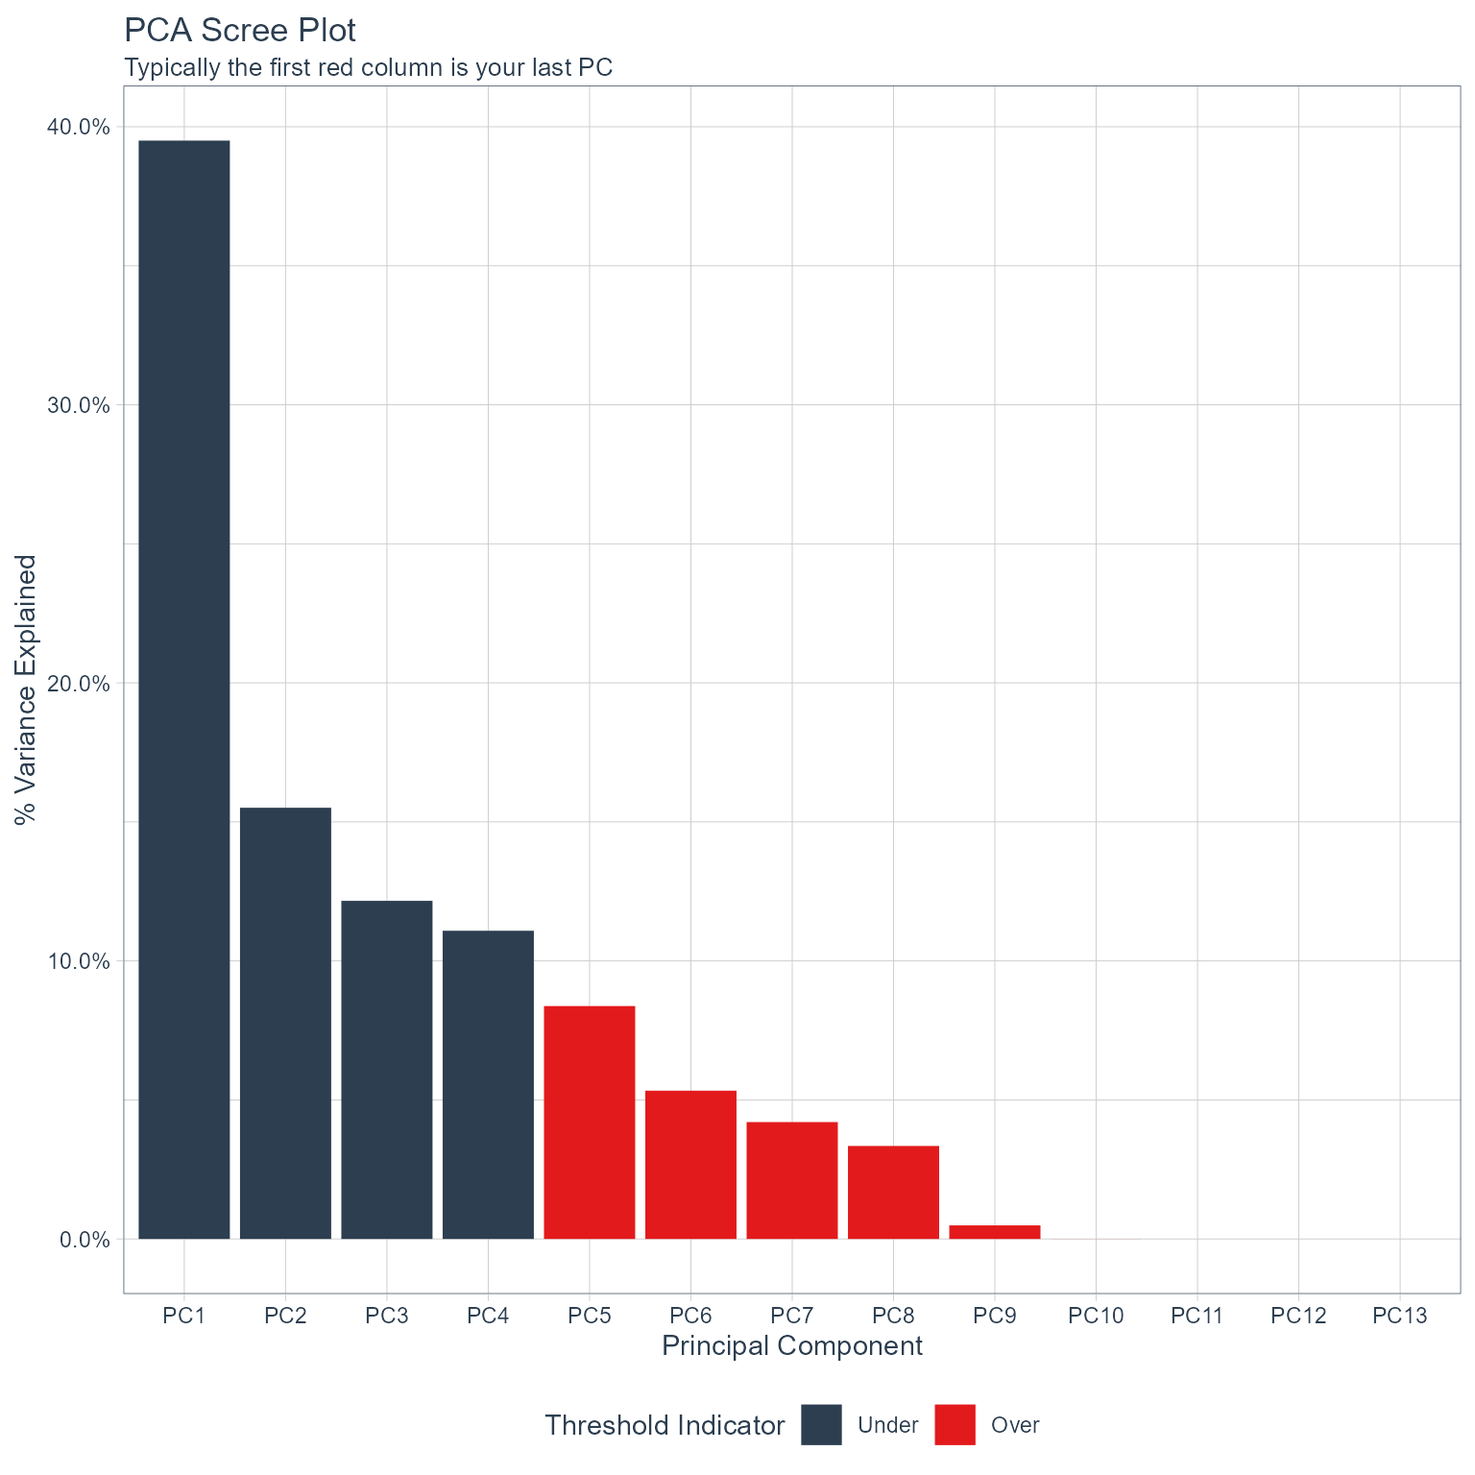
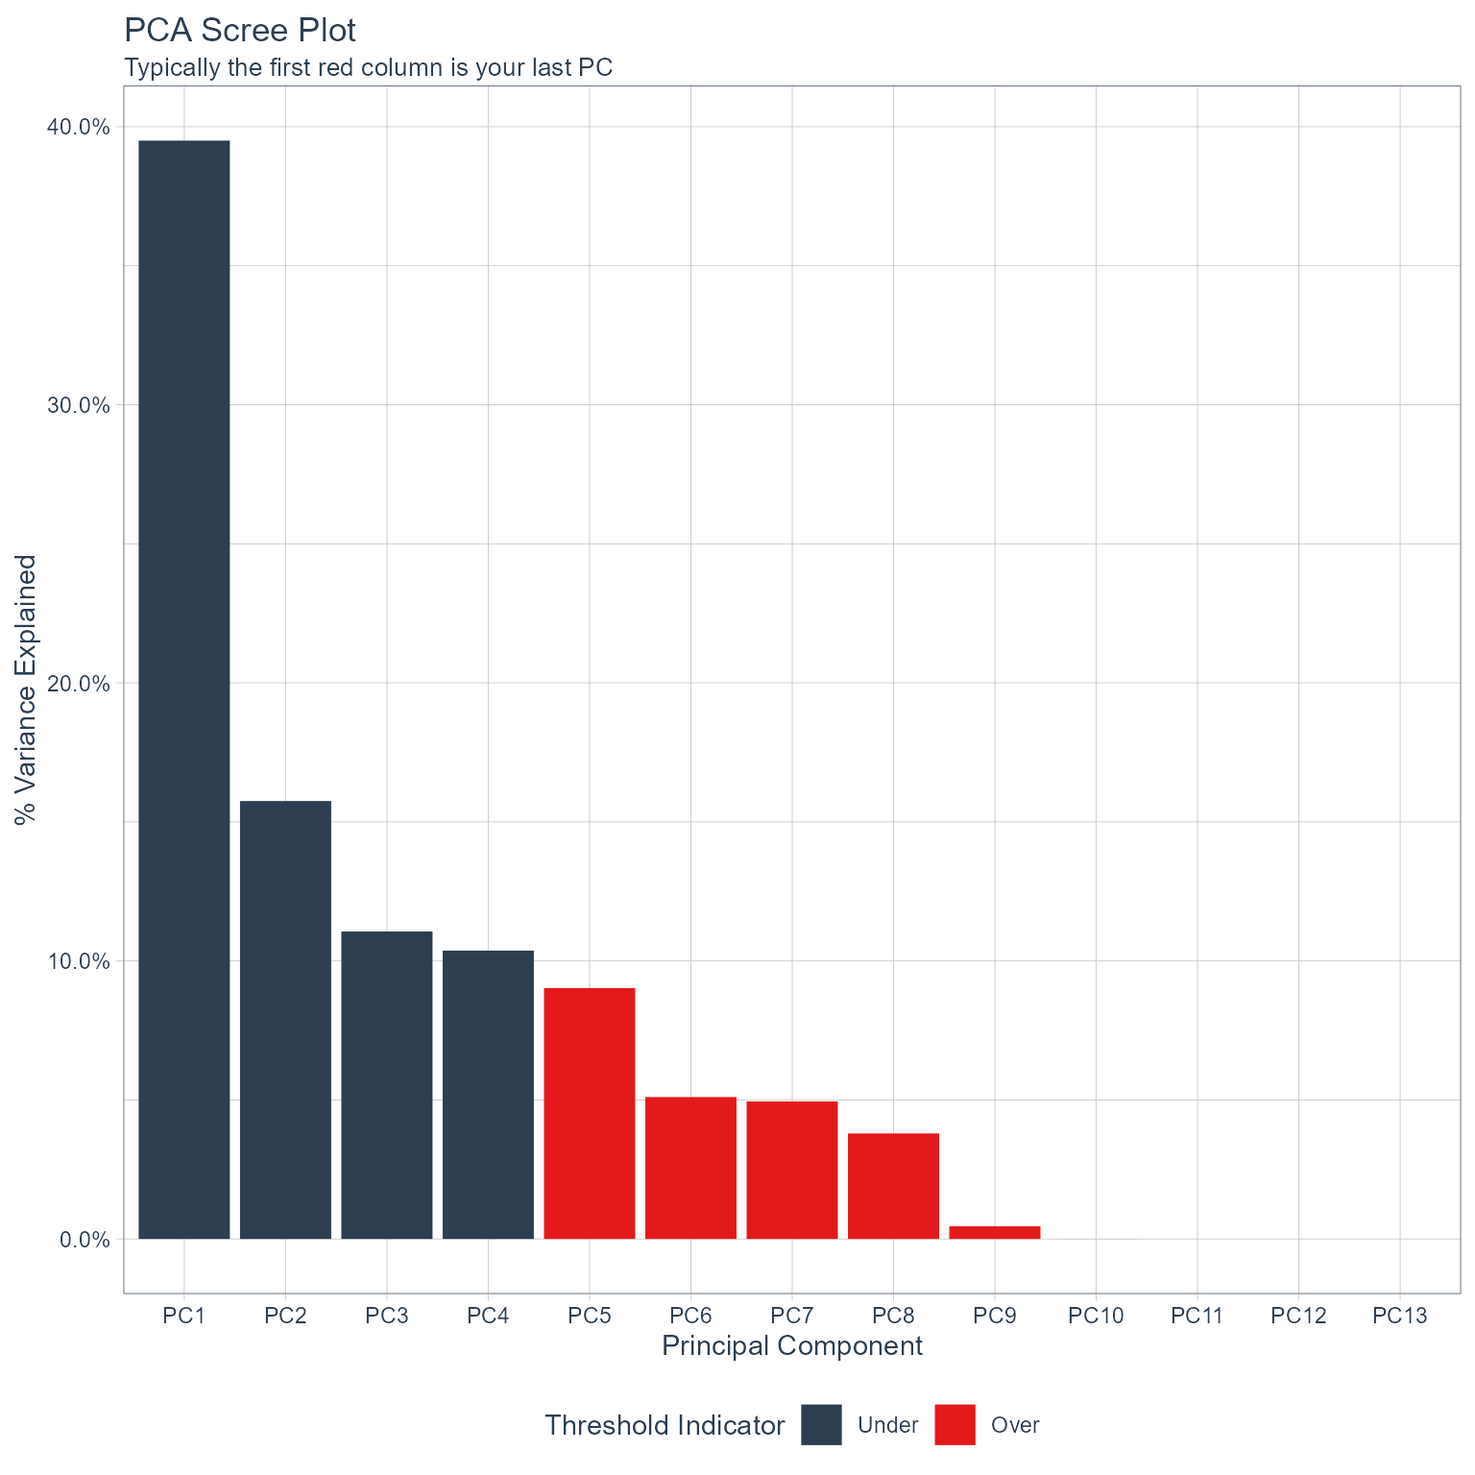
update site

diff --git a/docs/articles/getting-started.html b/docs/articles/getting-started.html
@@ -175,12 +175,12 @@
 <span class="co">#&gt; # A tibble: 6 x 2</span>
 <span class="co">#&gt;   date_col            value</span>
 <span class="co">#&gt;   &lt;dttm&gt;              &lt;int&gt;</span>
-<span class="co">#&gt; 1 2018-04-01 00:00:00  1616</span>
-<span class="co">#&gt; 2 2019-08-01 00:00:00  1416</span>
-<span class="co">#&gt; 3 2013-09-01 00:00:00  1753</span>
-<span class="co">#&gt; 4 2017-04-01 00:00:00  1493</span>
-<span class="co">#&gt; 5 2018-03-01 00:00:00  1618</span>
-<span class="co">#&gt; 6 2016-12-01 00:00:00  1557</span></code></pre></div>
+<span class="co">#&gt; 1 2014-04-01 00:00:00  1805</span>
+<span class="co">#&gt; 2 2017-01-01 00:00:00  1635</span>
+<span class="co">#&gt; 3 2015-08-01 00:00:00  1609</span>
+<span class="co">#&gt; 4 2016-01-01 00:00:00  1510</span>
+<span class="co">#&gt; 5 2020-06-01 00:00:00   997</span>
+<span class="co">#&gt; 6 2018-05-01 00:00:00  1677</span></code></pre></div>
 </div>
 <div id="initial-recipe" class="section level2">
 <h2 class="hasAnchor">
@@ -207,25 +207,25 @@
 <span class="fu"><a href="../reference/get_juiced_data.html">get_juiced_data</a></span><span class="op">(</span><span class="va">rec_obj</span><span class="op">)</span> <span class="op"><a href="../reference/%&gt;%.html">%&gt;%</a></span> <span class="fu"><a href="https://pillar.r-lib.org/reference/glimpse.html">glimpse</a></span><span class="op">(</span><span class="op">)</span>
 <span class="co">#&gt; Rows: 76</span>
 <span class="co">#&gt; Columns: 20</span>
-<span class="co">#&gt; $ date_col           &lt;dttm&gt; 2018-04-01, 2019-08-01, 2013-09-01, 2017-04-01, 20~</span>
-<span class="co">#&gt; $ value              &lt;int&gt; 1616, 1416, 1753, 1493, 1618, 1557, 2028, 1381, 175~</span>
-<span class="co">#&gt; $ date_col_index.num &lt;dbl&gt; 1522540800, 1564617600, 1377993600, 1491004800, 151~</span>
-<span class="co">#&gt; $ date_col_year      &lt;int&gt; 2018, 2019, 2013, 2017, 2018, 2016, 2013, 2019, 201~</span>
-<span class="co">#&gt; $ date_col_half      &lt;int&gt; 1, 2, 2, 1, 1, 2, 1, 2, 1, 1, 1, 2, 2, 1, 1, 1, 2, ~</span>
-<span class="co">#&gt; $ date_col_quarter   &lt;int&gt; 2, 3, 3, 2, 1, 4, 2, 4, 1, 1, 2, 3, 3, 2, 1, 1, 3, ~</span>
-<span class="co">#&gt; $ date_col_month     &lt;int&gt; 4, 8, 9, 4, 3, 12, 5, 12, 1, 1, 5, 9, 8, 4, 2, 3, 7~</span>
-<span class="co">#&gt; $ date_col_month.lbl &lt;ord&gt; April, August, September, April, March, December, M~</span>
+<span class="co">#&gt; $ date_col           &lt;dttm&gt; 2014-04-01, 2017-01-01, 2015-08-01, 2016-01-01, 20~</span>
+<span class="co">#&gt; $ value              &lt;int&gt; 1805, 1635, 1609, 1510, 997, 1677, 1560, 1164, 1641~</span>
+<span class="co">#&gt; $ date_col_index.num &lt;dbl&gt; 1396310400, 1483228800, 1438387200, 1451606400, 159~</span>
+<span class="co">#&gt; $ date_col_year      &lt;int&gt; 2014, 2017, 2015, 2016, 2020, 2018, 2019, 2020, 201~</span>
+<span class="co">#&gt; $ date_col_half      &lt;int&gt; 1, 1, 2, 1, 1, 1, 1, 2, 2, 1, 2, 2, 1, 1, 1, 1, 1, ~</span>
+<span class="co">#&gt; $ date_col_quarter   &lt;int&gt; 2, 1, 3, 1, 2, 2, 1, 4, 4, 1, 3, 4, 1, 1, 1, 2, 2, ~</span>
+<span class="co">#&gt; $ date_col_month     &lt;int&gt; 4, 1, 8, 1, 6, 5, 3, 10, 10, 2, 9, 11, 2, 2, 2, 4, ~</span>
+<span class="co">#&gt; $ date_col_month.lbl &lt;ord&gt; April, January, August, January, June, May, March, ~</span>
 <span class="co">#&gt; $ date_col_day       &lt;int&gt; 1, 1, 1, 1, 1, 1, 1, 1, 1, 1, 1, 1, 1, 1, 1, 1, 1, ~</span>
-<span class="co">#&gt; $ date_col_wday      &lt;int&gt; 1, 5, 1, 7, 5, 5, 4, 1, 2, 5, 2, 3, 5, 4, 6, 1, 4, ~</span>
-<span class="co">#&gt; $ date_col_wday.lbl  &lt;ord&gt; Sunday, Thursday, Sunday, Saturday, Thursday, Thurs~</span>
+<span class="co">#&gt; $ date_col_wday      &lt;int&gt; 3, 1, 7, 6, 2, 3, 6, 5, 5, 2, 1, 5, 4, 6, 1, 6, 6, ~</span>
+<span class="co">#&gt; $ date_col_wday.lbl  &lt;ord&gt; Tuesday, Sunday, Saturday, Friday, Monday, Tuesday,~</span>
 <span class="co">#&gt; $ date_col_mday      &lt;int&gt; 1, 1, 1, 1, 1, 1, 1, 1, 1, 1, 1, 1, 1, 1, 1, 1, 1, ~</span>
-<span class="co">#&gt; $ date_col_qday      &lt;int&gt; 1, 32, 63, 1, 60, 62, 31, 62, 1, 1, 31, 63, 32, 1, ~</span>
-<span class="co">#&gt; $ date_col_yday      &lt;int&gt; 91, 213, 244, 91, 60, 336, 121, 335, 1, 1, 121, 244~</span>
-<span class="co">#&gt; $ date_col_mweek     &lt;int&gt; 5, 5, 5, 5, 5, 5, 5, 5, 6, 5, 6, 6, 5, 5, 5, 5, 5, ~</span>
-<span class="co">#&gt; $ date_col_week      &lt;int&gt; 13, 31, 35, 13, 9, 48, 18, 48, 1, 1, 18, 35, 31, 14~</span>
-<span class="co">#&gt; $ date_col_week2     &lt;int&gt; 1, 1, 1, 1, 1, 0, 0, 0, 1, 1, 0, 1, 1, 0, 1, 1, 1, ~</span>
-<span class="co">#&gt; $ date_col_week3     &lt;int&gt; 1, 1, 2, 1, 0, 0, 0, 0, 1, 1, 0, 2, 1, 2, 2, 0, 0, ~</span>
-<span class="co">#&gt; $ date_col_week4     &lt;int&gt; 1, 3, 3, 1, 1, 0, 2, 0, 1, 1, 2, 3, 3, 2, 1, 1, 3, ~</span>
+<span class="co">#&gt; $ date_col_qday      &lt;int&gt; 1, 1, 32, 1, 62, 31, 60, 1, 1, 32, 63, 32, 32, 32, ~</span>
+<span class="co">#&gt; $ date_col_yday      &lt;int&gt; 91, 1, 213, 1, 153, 121, 60, 275, 274, 32, 244, 305~</span>
+<span class="co">#&gt; $ date_col_mweek     &lt;int&gt; 6, 5, 5, 5, 6, 5, 5, 5, 5, 6, 5, 5, 5, 5, 5, 5, 5, ~</span>
+<span class="co">#&gt; $ date_col_week      &lt;int&gt; 13, 1, 31, 1, 22, 18, 9, 40, 40, 5, 35, 44, 5, 5, 5~</span>
+<span class="co">#&gt; $ date_col_week2     &lt;int&gt; 1, 1, 1, 1, 0, 0, 1, 0, 0, 1, 1, 0, 1, 1, 1, 0, 0, ~</span>
+<span class="co">#&gt; $ date_col_week3     &lt;int&gt; 1, 1, 1, 1, 1, 0, 0, 1, 1, 2, 2, 2, 2, 2, 2, 2, 0, ~</span>
+<span class="co">#&gt; $ date_col_week4     &lt;int&gt; 1, 1, 3, 1, 2, 2, 1, 0, 0, 1, 3, 0, 1, 1, 1, 2, 2, ~</span>
 <span class="co">#&gt; $ date_col_mday7     &lt;int&gt; 1, 1, 1, 1, 1, 1, 1, 1, 1, 1, 1, 1, 1, 1, 1, 1, 1, ~</span></code></pre></div>
 <p>Now that we have out initial recipe we can use the <code><a href="../reference/pca_your_recipe.html">pca_your_recipe()</a></code> function.</p>
 <div class="sourceCode" id="cb6"><pre class="downlit sourceCode r">
@@ -287,18 +287,18 @@
 <div class="sourceCode" id="cb8"><pre class="downlit sourceCode r">
 <code class="sourceCode R"><span class="va">pca_list</span><span class="op">$</span><span class="va">variable_loadings</span>
 <span class="co">#&gt; # A tibble: 169 x 4</span>
-<span class="co">#&gt;    terms                  value component id       </span>
-<span class="co">#&gt;    &lt;chr&gt;                  &lt;dbl&gt; &lt;chr&gt;     &lt;chr&gt;    </span>
-<span class="co">#&gt;  1 date_col_index.num -0.0529   PC1       pca_MX5Cr</span>
-<span class="co">#&gt;  2 date_col_year       0.000944 PC1       pca_MX5Cr</span>
-<span class="co">#&gt;  3 date_col_half      -0.385    PC1       pca_MX5Cr</span>
-<span class="co">#&gt;  4 date_col_quarter   -0.432    PC1       pca_MX5Cr</span>
-<span class="co">#&gt;  5 date_col_month     -0.438    PC1       pca_MX5Cr</span>
-<span class="co">#&gt;  6 date_col_wday      -0.0275   PC1       pca_MX5Cr</span>
-<span class="co">#&gt;  7 date_col_qday      -0.0886   PC1       pca_MX5Cr</span>
-<span class="co">#&gt;  8 date_col_yday      -0.438    PC1       pca_MX5Cr</span>
-<span class="co">#&gt;  9 date_col_mweek      0.0671   PC1       pca_MX5Cr</span>
-<span class="co">#&gt; 10 date_col_week      -0.438    PC1       pca_MX5Cr</span>
+<span class="co">#&gt;    terms                value component id       </span>
+<span class="co">#&gt;    &lt;chr&gt;                &lt;dbl&gt; &lt;chr&gt;     &lt;chr&gt;    </span>
+<span class="co">#&gt;  1 date_col_index.num  0.0324 PC1       pca_LeSey</span>
+<span class="co">#&gt;  2 date_col_year      -0.0228 PC1       pca_LeSey</span>
+<span class="co">#&gt;  3 date_col_half       0.387  PC1       pca_LeSey</span>
+<span class="co">#&gt;  4 date_col_quarter    0.433  PC1       pca_LeSey</span>
+<span class="co">#&gt;  5 date_col_month      0.439  PC1       pca_LeSey</span>
+<span class="co">#&gt;  6 date_col_wday       0.0455 PC1       pca_LeSey</span>
+<span class="co">#&gt;  7 date_col_qday       0.0959 PC1       pca_LeSey</span>
+<span class="co">#&gt;  8 date_col_yday       0.439  PC1       pca_LeSey</span>
+<span class="co">#&gt;  9 date_col_mweek     -0.0518 PC1       pca_LeSey</span>
+<span class="co">#&gt; 10 date_col_week       0.439  PC1       pca_LeSey</span>
 <span class="co">#&gt; # ... with 159 more rows</span></code></pre></div>
 </div>
 <div id="variable-variance" class="section level2">
@@ -309,16 +309,16 @@
 <span class="co">#&gt; # A tibble: 52 x 4</span>
 <span class="co">#&gt;    terms       value component id       </span>
 <span class="co">#&gt;    &lt;chr&gt;       &lt;dbl&gt;     &lt;int&gt; &lt;chr&gt;    </span>
-<span class="co">#&gt;  1 variance 5.14             1 pca_MX5Cr</span>
-<span class="co">#&gt;  2 variance 2.02             2 pca_MX5Cr</span>
-<span class="co">#&gt;  3 variance 1.58             3 pca_MX5Cr</span>
-<span class="co">#&gt;  4 variance 1.44             4 pca_MX5Cr</span>
-<span class="co">#&gt;  5 variance 1.09             5 pca_MX5Cr</span>
-<span class="co">#&gt;  6 variance 0.693            6 pca_MX5Cr</span>
-<span class="co">#&gt;  7 variance 0.546            7 pca_MX5Cr</span>
-<span class="co">#&gt;  8 variance 0.435            8 pca_MX5Cr</span>
-<span class="co">#&gt;  9 variance 0.0634           9 pca_MX5Cr</span>
-<span class="co">#&gt; 10 variance 0.000267        10 pca_MX5Cr</span>
+<span class="co">#&gt;  1 variance 5.13             1 pca_LeSey</span>
+<span class="co">#&gt;  2 variance 2.05             2 pca_LeSey</span>
+<span class="co">#&gt;  3 variance 1.44             3 pca_LeSey</span>
+<span class="co">#&gt;  4 variance 1.35             4 pca_LeSey</span>
+<span class="co">#&gt;  5 variance 1.17             5 pca_LeSey</span>
+<span class="co">#&gt;  6 variance 0.663            6 pca_LeSey</span>
+<span class="co">#&gt;  7 variance 0.643            7 pca_LeSey</span>
+<span class="co">#&gt;  8 variance 0.493            8 pca_LeSey</span>
+<span class="co">#&gt;  9 variance 0.0591           9 pca_LeSey</span>
+<span class="co">#&gt; 10 variance 0.000243        10 pca_LeSey</span>
 <span class="co">#&gt; # ... with 42 more rows</span></code></pre></div>
 </div>
 <div id="pca-estimates" class="section level2">
@@ -352,28 +352,28 @@
 <code class="sourceCode R"><span class="va">pca_list</span><span class="op">$</span><span class="va">pca_juiced_estimates</span> <span class="op"><a href="../reference/%&gt;%.html">%&gt;%</a></span> <span class="fu"><a href="https://pillar.r-lib.org/reference/glimpse.html">glimpse</a></span><span class="op">(</span><span class="op">)</span>
 <span class="co">#&gt; Rows: 76</span>
 <span class="co">#&gt; Columns: 9</span>
-<span class="co">#&gt; $ date_col           &lt;dttm&gt; 2018-04-01, 2019-08-01, 2013-09-01, 2017-04-01, 20~</span>
-<span class="co">#&gt; $ value              &lt;dbl&gt; 0.17252184, -0.72676896, 0.78853603, -0.38054200, 0~</span>
-<span class="co">#&gt; $ date_col_month.lbl &lt;ord&gt; April, August, September, April, March, December, M~</span>
-<span class="co">#&gt; $ date_col_wday.lbl  &lt;ord&gt; Sunday, Thursday, Sunday, Saturday, Thursday, Thurs~</span>
-<span class="co">#&gt; $ PC1                &lt;dbl&gt; 2.0453643, -0.7419116, -1.0922849, 1.9873287, 2.616~</span>
-<span class="co">#&gt; $ PC2                &lt;dbl&gt; -0.9769518, -1.9027236, 1.6654655, -0.2606689, -0.9~</span>
-<span class="co">#&gt; $ PC3                &lt;dbl&gt; 0.043994680, 0.280696798, 1.954075547, -1.115024200~</span>
-<span class="co">#&gt; $ PC4                &lt;dbl&gt; -1.273234041, 1.421913390, 1.699155734, 0.009353741~</span>
-<span class="co">#&gt; $ PC5                &lt;dbl&gt; 0.1212499, 0.4046127, -0.5212584, 1.3233349, -1.095~</span>
+<span class="co">#&gt; $ date_col           &lt;dttm&gt; 2014-04-01, 2017-01-01, 2015-08-01, 2016-01-01, 20~</span>
+<span class="co">#&gt; $ value              &lt;dbl&gt; 1.014176455, 0.401363818, 0.307639533, -0.049233709~</span>
+<span class="co">#&gt; $ date_col_month.lbl &lt;ord&gt; April, January, August, January, June, May, March, ~</span>
+<span class="co">#&gt; $ date_col_wday.lbl  &lt;ord&gt; Tuesday, Sunday, Saturday, Friday, Monday, Tuesday,~</span>
+<span class="co">#&gt; $ PC1                &lt;dbl&gt; -2.1105622, -3.5392516, 0.7751972, -3.4346079, -0.6~</span>
+<span class="co">#&gt; $ PC2                &lt;dbl&gt; -2.01667849, 0.03429529, -0.92967583, -0.39001042, ~</span>
+<span class="co">#&gt; $ PC3                &lt;dbl&gt; -0.41347233, -0.72959175, 1.45529012, -0.71436670, ~</span>
+<span class="co">#&gt; $ PC4                &lt;dbl&gt; -1.24774104, -0.76209272, 1.68753456, 0.75111525, -~</span>
+<span class="co">#&gt; $ PC5                &lt;dbl&gt; -0.001685975, -0.235149574, -0.584005717, -1.343240~</span>
 
 <span class="va">pca_list</span><span class="op">$</span><span class="va">pca_baked_data</span> <span class="op"><a href="../reference/%&gt;%.html">%&gt;%</a></span> <span class="fu"><a href="https://pillar.r-lib.org/reference/glimpse.html">glimpse</a></span><span class="op">(</span><span class="op">)</span>
 <span class="co">#&gt; Rows: 95</span>
 <span class="co">#&gt; Columns: 9</span>
 <span class="co">#&gt; $ date_col           &lt;dttm&gt; 2013-01-01, 2013-02-01, 2013-03-01, 2013-04-01, 20~</span>
-<span class="co">#&gt; $ value              &lt;dbl&gt; 2.2678694, 0.6356566, 0.9818836, 1.2921389, 2.02506~</span>
+<span class="co">#&gt; $ value              &lt;dbl&gt; 2.0127006, 0.7041654, 0.9817334, 1.2304633, 1.81804~</span>
 <span class="co">#&gt; $ date_col_month.lbl &lt;ord&gt; January, February, March, April, May, June, July, A~</span>
 <span class="co">#&gt; $ date_col_wday.lbl  &lt;ord&gt; Tuesday, Friday, Friday, Monday, Wednesday, Saturda~</span>
-<span class="co">#&gt; $ PC1                &lt;dbl&gt; 3.8188246, 3.0721108, 2.7153147, 2.3119131, 1.21547~</span>
-<span class="co">#&gt; $ PC2                &lt;dbl&gt; 1.9802402, 2.2220865, 2.0843713, 1.9016112, 2.08956~</span>
-<span class="co">#&gt; $ PC3                &lt;dbl&gt; 1.31205149, -0.29816303, -1.62216090, 1.60806174, -~</span>
-<span class="co">#&gt; $ PC4                &lt;dbl&gt; -1.17387057, 0.75015936, 1.16820906, -1.33650585, -~</span>
-<span class="co">#&gt; $ PC5                &lt;dbl&gt; -0.3736973, 1.2100354, -1.0686335, -0.7019670, -1.0~</span></code></pre></div>
+<span class="co">#&gt; $ PC1                &lt;dbl&gt; -3.6278475, -2.8969755, -2.5351201, -2.1365807, -1.~</span>
+<span class="co">#&gt; $ PC2                &lt;dbl&gt; -2.659845, -2.289256, -1.797935, -2.649744, -1.7474~</span>
+<span class="co">#&gt; $ PC3                &lt;dbl&gt; -0.60527085, -0.16731014, -0.88461053, -0.53077896,~</span>
+<span class="co">#&gt; $ PC4                &lt;dbl&gt; -1.0535122, 1.2824953, 2.3322172, -1.3945676, 1.246~</span>
+<span class="co">#&gt; $ PC5                &lt;dbl&gt; -0.067494408, -1.059376932, 1.039908149, 0.26380988~</span></code></pre></div>
 </div>
 <div id="roatation-data" class="section level2">
 <h2 class="hasAnchor">
@@ -382,19 +382,19 @@
 <code class="sourceCode R"><span class="va">pca_list</span><span class="op">$</span><span class="va">pca_rotation_df</span> <span class="op"><a href="../reference/%&gt;%.html">%&gt;%</a></span> <span class="fu"><a href="https://pillar.r-lib.org/reference/glimpse.html">glimpse</a></span><span class="op">(</span><span class="op">)</span>
 <span class="co">#&gt; Rows: 13</span>
 <span class="co">#&gt; Columns: 13</span>
-<span class="co">#&gt; $ PC1  &lt;dbl&gt; -0.0529350774, 0.0009436524, -0.3847062340, -0.4324888136, -0.438~</span>
-<span class="co">#&gt; $ PC2  &lt;dbl&gt; -0.691627858, -0.695773373, -0.037045546, 0.004359250, 0.00431008~</span>
-<span class="co">#&gt; $ PC3  &lt;dbl&gt; -0.08479581, -0.08745093, 0.23671516, 0.06156350, 0.01734602, -0.~</span>
-<span class="co">#&gt; $ PC4  &lt;dbl&gt; -0.05934965, -0.06584205, 0.09856601, -0.08346876, 0.04978654, 0.~</span>
-<span class="co">#&gt; $ PC5  &lt;dbl&gt; 0.03677982, 0.04588214, 0.16145227, 0.06377449, -0.07379888, 0.42~</span>
-<span class="co">#&gt; $ PC6  &lt;dbl&gt; -0.06401270, -0.06587403, 0.27028688, 0.14105740, 0.01402763, 0.2~</span>
-<span class="co">#&gt; $ PC7  &lt;dbl&gt; 0.0219157055, 0.0219917141, -0.1457825539, -0.0175674550, 0.00076~</span>
-<span class="co">#&gt; $ PC8  &lt;dbl&gt; -0.021746225, -0.014952167, -0.070790953, 0.009000061, -0.0508099~</span>
-<span class="co">#&gt; $ PC9  &lt;dbl&gt; 0.008685986, -0.017643538, -0.812069173, 0.279700056, 0.212698122~</span>
-<span class="co">#&gt; $ PC10 &lt;dbl&gt; -0.0121565986, 0.0114443019, -0.0049790851, -0.2973298676, -0.368~</span>
-<span class="co">#&gt; $ PC11 &lt;dbl&gt; -2.617240e-02, 2.654195e-02, -6.845684e-04, -4.831490e-02, 6.6911~</span>
-<span class="co">#&gt; $ PC12 &lt;dbl&gt; 9.201112e-03, -8.791328e-03, 3.470709e-03, 7.793680e-01, -4.10348~</span>
-<span class="co">#&gt; $ PC13 &lt;dbl&gt; -7.076296e-01, 7.039459e-01, 1.434831e-04, 3.791158e-02, -2.35568~</span></code></pre></div>
+<span class="co">#&gt; $ PC1  &lt;dbl&gt; 0.03242350, -0.02275794, 0.38727721, 0.43298104, 0.43853001, 0.04~</span>
+<span class="co">#&gt; $ PC2  &lt;dbl&gt; 0.679351835, 0.680462039, -0.069494391, -0.020666326, -0.00429357~</span>
+<span class="co">#&gt; $ PC3  &lt;dbl&gt; 0.11071167, 0.10571198, 0.24455786, -0.01470654, 0.03935375, 0.04~</span>
+<span class="co">#&gt; $ PC4  &lt;dbl&gt; -0.146897628, -0.148228846, -0.054332673, -0.082455939, 0.0104972~</span>
+<span class="co">#&gt; $ PC5  &lt;dbl&gt; -0.03698517, -0.04611861, -0.12778383, -0.08319318, 0.07402551, -~</span>
+<span class="co">#&gt; $ PC6  &lt;dbl&gt; 0.007684473, 0.008416391, -0.312842432, -0.133756014, -0.00803144~</span>
+<span class="co">#&gt; $ PC7  &lt;dbl&gt; -0.015927592, -0.016468251, -0.074702091, 0.061554884, 0.00733988~</span>
+<span class="co">#&gt; $ PC8  &lt;dbl&gt; 0.04908454, 0.04367889, 0.08587659, 0.01305154, 0.03985900, 0.351~</span>
+<span class="co">#&gt; $ PC9  &lt;dbl&gt; 0.01006390, -0.01725189, -0.80947169, 0.27462372, 0.21643393, -0.~</span>
+<span class="co">#&gt; $ PC10 &lt;dbl&gt; -0.0129511487, 0.0117984380, -0.0045896264, -0.3073234988, -0.373~</span>
+<span class="co">#&gt; $ PC11 &lt;dbl&gt; -0.0272204125, 0.0278651541, -0.0006045437, 0.0653391558, 0.59165~</span>
+<span class="co">#&gt; $ PC12 &lt;dbl&gt; 1.493599e-02, -1.443503e-02, 2.480739e-03, 7.749335e-01, -5.12351~</span>
+<span class="co">#&gt; $ PC13 &lt;dbl&gt; 7.058830e-01, -7.053426e-01, -1.361575e-04, -4.070440e-02, 5.0819~</span></code></pre></div>
 </div>
 <div id="variance-and-scree-plot" class="section level2">
 <h2 class="hasAnchor">
@@ -404,10 +404,10 @@
 <span class="co">#&gt; Rows: 13</span>
 <span class="co">#&gt; Columns: 6</span>
 <span class="co">#&gt; $ PC              &lt;chr&gt; "PC1", "PC2", "PC3", "PC4", "PC5", "PC6", "PC7", "PC8"~</span>
-<span class="co">#&gt; $ var_explained   &lt;dbl&gt; 3.950131e-01, 1.550817e-01, 1.216054e-01, 1.108424e-01~</span>
-<span class="co">#&gt; $ var_pct_txt     &lt;chr&gt; "39.50%", "15.51%", "12.16%", "11.08%", "8.38%", "5.33~</span>
-<span class="co">#&gt; $ cum_var_pct     &lt;dbl&gt; 0.3950131, 0.5500948, 0.6717002, 0.7825426, 0.8662975,~</span>
-<span class="co">#&gt; $ cum_var_pct_txt &lt;chr&gt; "39.50%", "55.01%", "67.17%", "78.25%", "86.63%", "91.~</span>
+<span class="co">#&gt; $ var_explained   &lt;dbl&gt; 3.949959e-01, 1.574885e-01, 1.105705e-01, 1.037012e-01~</span>
+<span class="co">#&gt; $ var_pct_txt     &lt;chr&gt; "39.50%", "15.75%", "11.06%", "10.37%", "9.02%", "5.10~</span>
+<span class="co">#&gt; $ cum_var_pct     &lt;dbl&gt; 0.3949959, 0.5524844, 0.6630549, 0.7667562, 0.8569882,~</span>
+<span class="co">#&gt; $ cum_var_pct_txt &lt;chr&gt; "39.50%", "55.25%", "66.31%", "76.68%", "85.70%", "90.~</span>
 <span class="co">#&gt; $ ou_threshold    &lt;fct&gt; Under, Under, Under, Under, Over, Over, Over, Over, Ov~</span></code></pre></div>
 <div class="sourceCode" id="cb14"><pre class="downlit sourceCode r">
 <code class="sourceCode R"><span class="va">pca_list</span><span class="op">$</span><span class="va">pca_variance_scree_plt</span></code></pre></div>

diff --git a/docs/index.html b/docs/index.html
@@ -117,6 +117,9 @@
 <p>This is a basic example which shows you how to solve a common problem:</p>
 <div class="sourceCode" id="cb3"><pre class="downlit sourceCode r">
 <code class="sourceCode R"><span class="kw"><a href="https://rdrr.io/r/base/library.html">library</a></span><span class="op">(</span><span class="va"><a href="https://github.com/spsanderson/healthyR.ai">healthyR.ai</a></span><span class="op">)</span>
+<span class="co">#&gt; Registered S3 method overwritten by 'tune':</span>
+<span class="co">#&gt;   method                   from   </span>
+<span class="co">#&gt;   required_pkgs.model_spec parsnip</span>
 <span class="co">#&gt; == Welcome to healthyR.ai ======================================================</span>
 <span class="co">#&gt; If you find this package useful, please leave a star: https://github.com/spsanderson/healthyR.ai</span>
 <span class="co">#&gt; If you encounter a bug or want to request an enhancement please file an issue at:</span>
